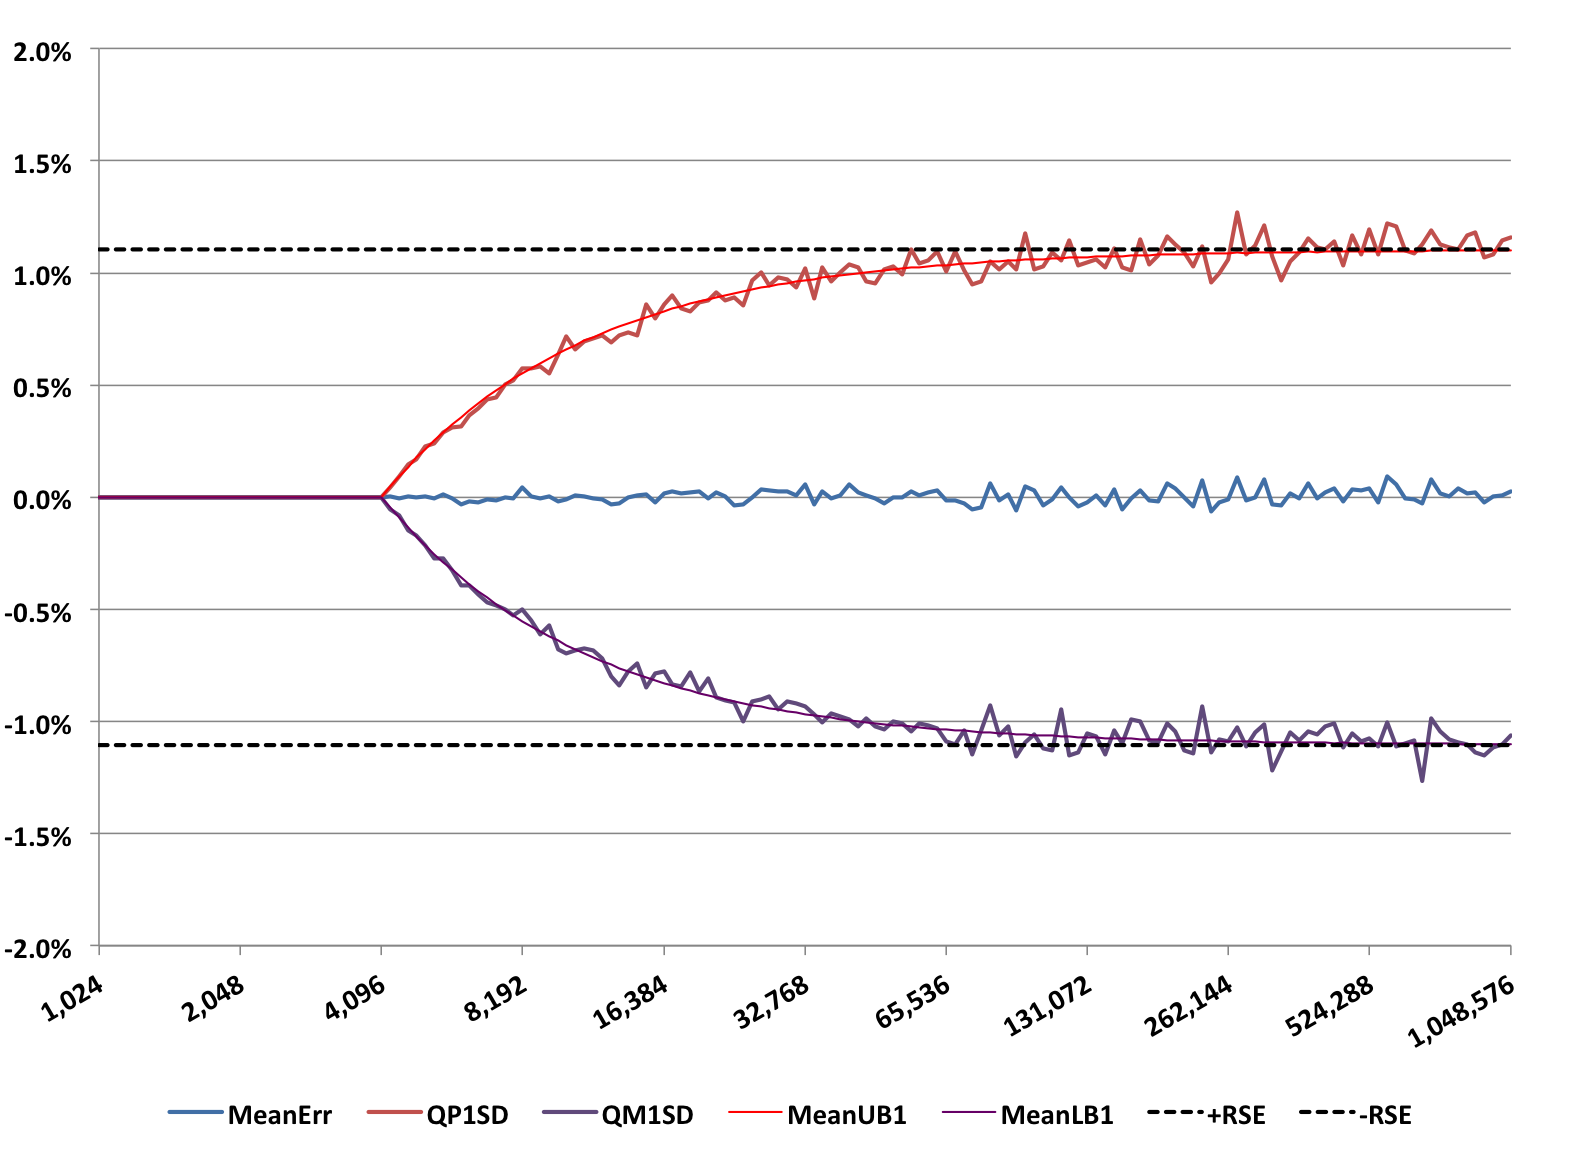
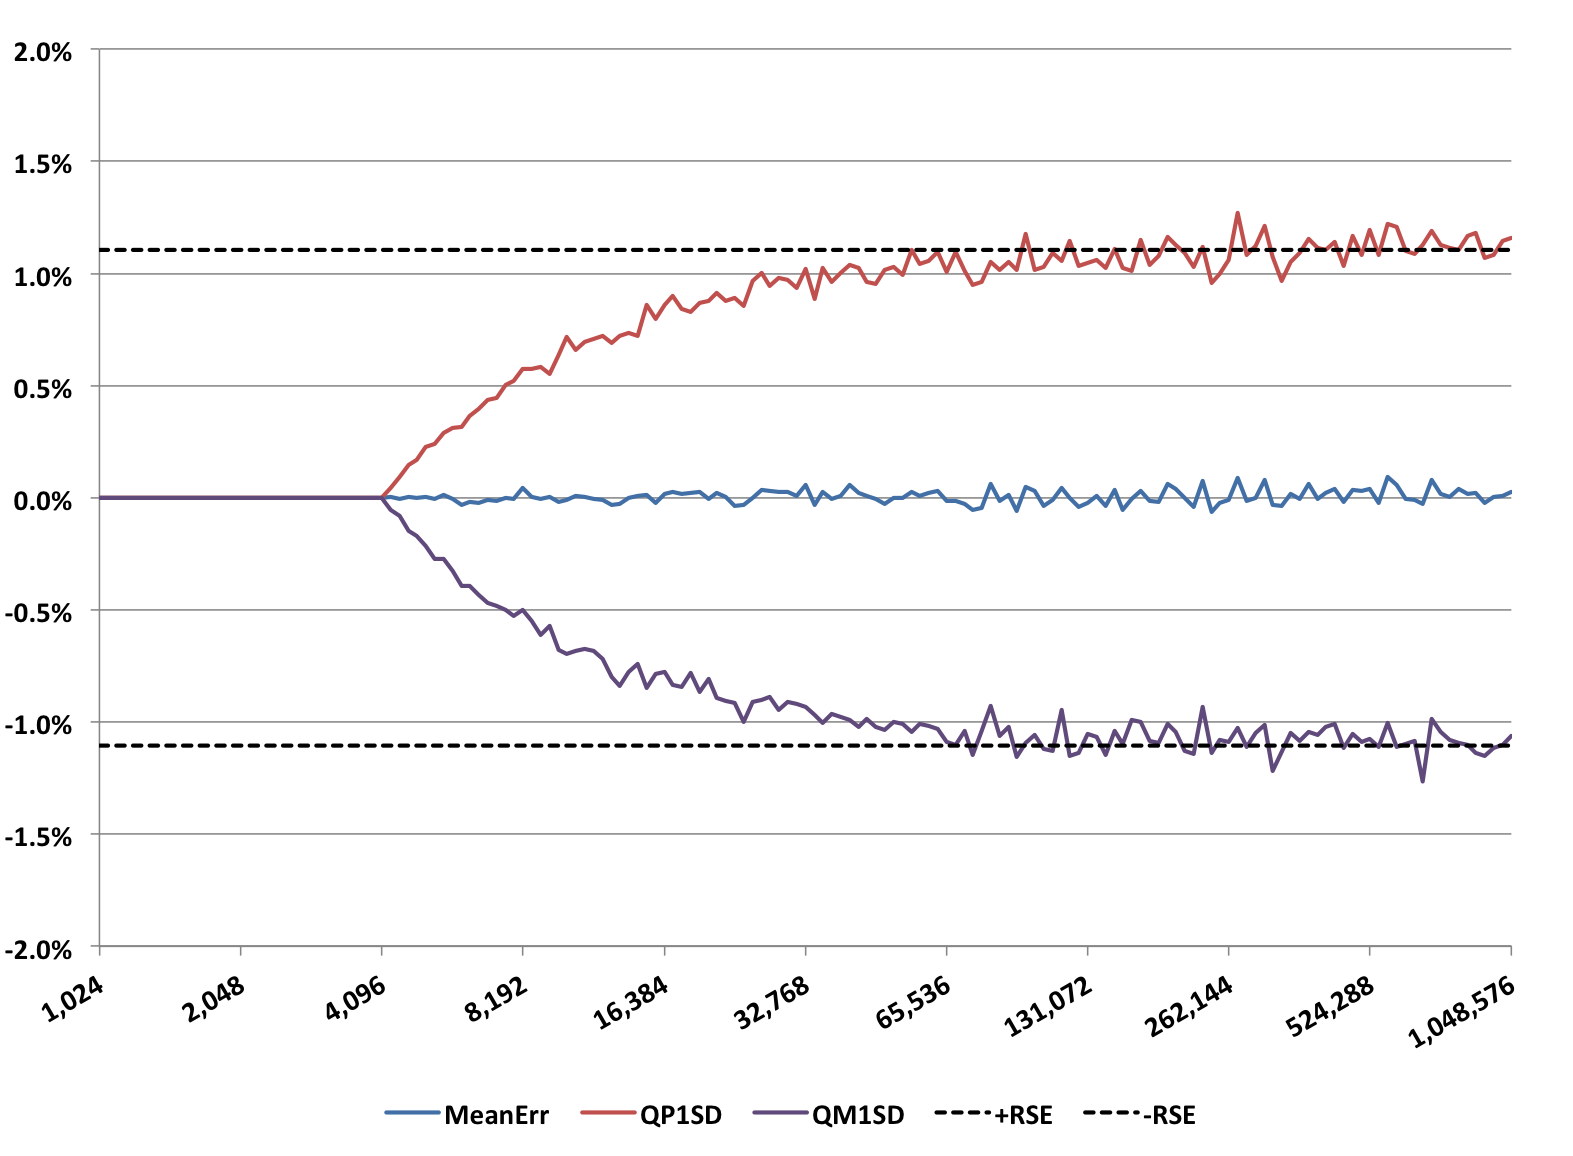
Update error performance graphs and p-Sampling section.

diff --git a/docs/AccuracyPlots.md b/docs/AccuracyPlots.md
@@ -11,28 +11,32 @@ A QuickSelect Sketch, which is the default sketch family, can be constructed wit
 <div class="highlight"><pre><code class="language-text" data-lang="text">int k = 4096;
 UpdateSketch sketch = UpdateSketch.builder().build(k);
 
-// The sketch is fed unique values with a loop similar to
-long u; //the x-coordinate value, the number of uniques to be fed to the sketch
+// The sketch is fed unique values. Here I use a simple loop for testing.
+// u is the number of uniques to be fed to the sketch
+
+long u;
 for (int i=0; i&lt;u; i++) {
   sketch.update(i);
 }
 
-// After all the unique values have been fed to the sketch, 
-//  the estimate of <i>u</i> is obtained from the sketch
+// After all the unique values have been fed to the sketch, get the estimate of <i>u</i>
+
 double est = sketch.getEstimate();
 
-// The upper and lower bounds at 1 RSE can be obtained from the sketch:
+// An optional rebuild option to reduce the sketch size to <i>k</i> if neccessary 
+
+sketch.rebuild();
+
+// Get the upper and lower bounds. 
+// The parameter is the number is the standard deviations from the estimate.
+
 double ub = sketch.getUpperBound(1);
 double lb = sketch.getLowerBound(1);
-
-// The optional rebuild option can be used prior to obtaining the above values 
-//  or storing the sketch:
-sketch.rebuild();
 </code></pre></div> 
 
-The accuracy behavior of this QuickSelect Sketch (the default) will be similar to the following graph:
+The accuracy behavior of this QuickSelect Sketch (the default, with no rebuild) will be similar to the following graph:
 
-<img class="doc-img-half" src="{{site.docs_img_dir}}QS4KError.png" alt="QS4KError" /> 
+<img class="doc-img-half" src="{{site.docs_img_dir}}QS4KError.png" alt="QS4KError" />
 
 This type of graph is called a "pitchfork", which is used throughout this documentation to characterize the accuracy of the various sketches.
 
@@ -45,7 +49,9 @@ This means that the plotted x values form an exponential series of the form <i>2
   * A <i>Trial Set<i> is the set of results of runing <i>T</i> independent trials at <i>x</i>.
 
 * The y-axis measures the Relative Error (RE) of result estimates returned by the sketches in the trials, where <i>RE = MeasuredValue/TrueValue -1</i> and is plotted as a percent. 
-  * An imaginary line drawn vertically from each x-axis point represents the range of error values that result from the Trial Set.  However, not all of the error values from all the trials are plotted. Instead, for each Trial Set, the result error values are sorted and then selected quantiles are chosen and then only those y-axis values are plotted. 
+  * An imaginary line drawn vertically from each x-axis point represents the range of error values that result from the Trial Set. 
+  However, not all of the error values from all the trials are plotted. 
+  Instead, for each Trial Set, the result error values are sorted and then selected quantiles are chosen and then only those y-axis values are plotted. 
   * Connecting the plotted points with the same quantiles form the lines of the graph
 
 * The plotted lines on these graphs are actually the lines of constant quantiles of the distributions of error measured at each x-axis point on the graph.  
@@ -57,39 +63,35 @@ which has the +/- 1, 2 and 3 standard deviation points on the x-axis marked and 
 
 The specifics of the above pitchfork graph:
 
-* The sketch type is the Heap QuickSelect Sketch, which is the default theta UpdateSketch.
+* The sketch type is the Heap QuickSelect Sketch, which is the default Theta UpdateSketch.
 * The sketch was configured with <i>k = 4096</i>.
 * The x-axis varies from 1024 (2^10) uniques per sketch to 1,048,576 (2^20) uniques per sketch. 
 * PPO = 16.
-* T = 1000.
-* Wavy colored curves:
-  * The light blue wavy curve in the center (at Y = 0%) represents the mean of the distribution of error values.  The median is not plotted but sits on top of the mean. The fact that the mean and median are at zero validates the assertion that the estimates from the sketch are <i>unbiased</i>.
-  * The red wavy curve are the quantiles at +1 <i>Relative Standard Error</i> (RSE), which means ~15.87% of the results of all the trials are above that curve.
-  * The purple wavy curve are the quantiles at -1 RSE, which means ~15.87% of the results of all the trials are below that curve.
-* Straight segment curves:
-  * The bright red straight segment lines are estimates from the sketch of the upper bound at plus 1 RSE. 
-  * The bright purple straight segment lines are estimates from the sketch of the lower bound at minus 1 RSE.
-* Reference lines:
-  * The long-dash reference lines are at plus and minus 1 RSE computed from the mathematical theory. The fact that 68.3% of all the trial points lie within these two long-dashed lines validates the assertion that the basic RSE of a sketch is less than <i>1/sqrt(k)</i>.
+* Trials, T = 4096.
+* Wavy colored lines:
+  * The black wavy line in the center (at Y = 0%) represents the median of the distribution of error values.  The median sits on top of the mean, which is brown and hard to see. 
+  The fact that the mean and median are at zero validates the assertion that the estimates from the sketch are <i>unbiased</i>.
+  * The red wavy line is the connected quantiles at +1 <i>Relative Standard Error</i> (RSE), which means ~15.87% of the trial results are above that line.
+  * The blue wavy line is the connected quantiles at +2 RSE, which means ~2.3% of the trial results are above that line.
+  * The purple wavy line is the connected quantiles at -1 RSE, which means ~15.87% of the trial results are below that line.
+  * The green wavy line is the connected quantiles at -2 RSE, which means ~2.3% of the trial results are below that line.
   
 This particular graph also illustrates some other subtle points about this particular sketch.
 
-* The saw-toothed variation in the overall shaped is due to the fact that the QuickSelect sketch only updates its internal theta when the hash table fills up, which occurs when the hash table reaches <i>15k/8</i> (note that the estimation starts at almost 8K), at which point the sketch uses the QuickSelect algorithm to find the <i>(k + 1)</i><sup>th</sup> order statistic from the cache, assigns this value to theta, discards all values above theta, and rebuilds the hash table.  
-* Because the number of valid points nearly reaches <i>2k</i> values means that the Relative Error of the sketch nearly reaches <i>1/sqrt(2k)</i>. The short-dashed lines are drawn at plus and minus <i>1/sqrt(2k)</i>. 
-* This behavior could possibly result in nearly <i>2k</i> values being stored.
+* The saw-toothed variation in the overall shaped is due to the fact that the QuickSelect sketch only updates its internal theta when the hash table fills up, which occurs when the hash table reaches <i>15k/8</i> 
+(note that the estimation starts at almost 8K), at which point the sketch uses the QuickSelect algorithm to find the <i>(k + 1)</i><sup>th</sup> order statistic from the cache, 
+assigns this value to theta, discards all values above theta, and rebuilds the hash table. 
+* Because the number of valid points nearly reaches <i>2k</i> values means that the Relative Error of the sketch nearly reaches <i>1/sqrt(2k)</i>. 
 
-If the user does not want the sketch ever to exceed <i>k</i> values, then there is an optional rebuild method that can be used as mentioned in the above code snippet.
+If the user does not want the sketch ever to exceed <i>k</i> values, then there is an optional rebuild method (see code snippet above) that can be used.
 This would result in the following graph:
 
 <img class="doc-img-half" src="{{site.docs_img_dir}}QS4KErrorRebuild.png" alt="QS4KErrorRebuild" />
 
-Note that the plus and minus 1 RSE now smoothly moves up to and follows the theoretically computed RSE reference lines and that estimation starts at 4K.  Because of the extra rebuild at the end the full cycle time of the sketch is a little slower and the average accuracy is a little less than without the rebuild.  This is a tradeoff the user can choose to use or not.
+Because of the extra rebuild at the end the full cycle time of the sketch is a little slower and the average accuracy is a little less than without the rebuild. 
+This is a tradeoff the user can choose to use or not.
 
-Extending this graph to include the quantiles for both +/- 1 RSE and +/- 2 RSE establishes the bounds for the 68% and 95.4% confidence levels respectfully.  Note the rescaling of the y-axis.
-
-<img class="doc-img-half" src="{{site.docs_img_dir}}QS4KErrorRebuild2.png" alt="QS4KErrorRebuild2" />
-
-
+The quantiles for both +/- 1 RSE and +/- 2 RSE establishes the bounds for the 68% and 95.4% confidence levels respectfully.
 
 ###Accuracy of the Alpha Sketch Family
 
@@ -98,5 +100,8 @@ Another major sketch family is the Alpha Sketch.  Its pitchfork graph looks like
 <img class="doc-img-half" src="{{site.docs_img_dir}}Alpha4KError.png" alt="Alpha4KError" /> 
 
 This sketch was also configured with a size of 4K entries, otherwise the defaults.
-The wavy and smooth curves have the same interpretation as the wavy and straight segment lines for the QuickSelect Sketch above.
-However, the short-dashed reference lines are computed at plus and minus <i>1/sqrt(2k)</i>, which means the Alpha Sketch is about 30% more accurate than the QuickSelect Sketch with rebuild for the same value of <i>k</i>.
+The wavy lines have the same interpretation as the wavy lines for the QuickSelect Sketch above.
+The short-dashed reference lines are computed at plus and minus <i>1/sqrt(2k)</i>. 
+The Alpha Sketch is about 30% more accurate than the QuickSelect Sketch with rebuild for the same value of <i>k</i>. 
+However, this improved accuracy can only be obtained when getEstimate() is directly called from the Alpha Sketch. 
+After compacting to a Compact Sketch or after any set operation, the accuracy falls back to the standard <i>1/sqrt(k)</i>.

diff --git a/docs/Sampling.md b/docs/Sampling.md
@@ -2,7 +2,71 @@
 layout: doc_page
 ---
 
-
 ##Up-Front Sampling
 
+The up-front / p-sampling option of the Theta Sketches exists to address the system-level storage allocation challenge when dealing with highly partitioned/fragmented, massive data that inherently has a long-tail distribution across all the fragments. 
+
+Partitioning of Big Data into a large number of fragments will often reveal that the incoming data has a long tail (or, more precisely, a power-law distribution). 
+
+For example, Yahoo has a few thousand "properties" and millions of Page-IDs/space-IDs, and users come from many thousands of Where-on-Earth geolocations across the globe.  If you were to create a sketch for every dimension-combination of (Page-ID, WOE) you would end up with billions of fragments, each with its own sketch.
+
+As you might expect, you will have a few of those combinations, e.g. (Front-page, New York City) that have very large counts of unique users, and millions of combinations (some small web-app, some small town) that would have only one or 2 users. 
+The sketch automatically limits the number of hashes it keeps for the big combinations to k, while all the hashes are retained for the millions of tiny combinations. 
+When you examine the storage of all those sketches you will discover that roughly 80% of all the storage is consumed by the "degenerate sketches", which are not sketching at all because they have not received more than k users.
+
+Setting the sampling to, say, p = 0.5, for all sketches, will automatically throw out 50% of all the data coming in to all the sketches. 
+A query against (FP, NYC) will have the same accuracy, with or without the p-sampling, because there is more than enough raw data to fill that sketch. 
+For all the tiny sketches, about half of the ones with only one user hash will disappear. 
+All of the degenerate sketches will be half of their original size when stored. 
+The effect of this is to reduce the overall system-level storage for all sketches by roughly 50%. 
+However, a query against (some small web-app, some small town) may return 0 because it has been "sampled" out. 
+It's relative error is now infinity! Sketches with more than 1 sample and less the k samples will have error rates that are in-between, but still can be larger than the native RSE of the basic sketch. 
+This effect is illustrated in the following plot, which was created with p=0.5.
+
+<img class="doc-img-half" src="{{site.docs_img_dir}}pSamplingPitchfork.png" alt="pSamplingPitchfork" />
+
+###The p-Sampling Error Behavior
+
+At about 8K uniques there is an inflection point where the error changes direction and begins to increase rather than go toward zero as with the normal pitchfork plots. 
+To the right of this inflection point the error behavior is the same as a normal sketch, with p=1.0, which is the default. 
+To the left of this inflection point the error begins to increase.
+
+The inflection point is the result of two different error behaviors intersecting.
+To the left of the inflection point the error behavior is that of standard Bernoulli sampling with a fixed probability equal to <i>p</i>.
+To the right of the inflection point the error behavior is that of the underlying sketch.
+
+The following log-log plot illustrates these intersecting error behaviors more clearly. 
+
+<img class="doc-img-half" src="{{site.docs_img_dir}}RSE_4K_0p5.png" alt="RSE_4K_0p5" />
+
+The RSE (normalized square-root of the variance) of a Bernoulli sampling process, with fixed <i>p</i>, is a straight line on a log-log plot (plotted in blue).
+The y intercept at x=1 is simply <i>(1/p -1)</i> and the log-log slope is -1/2. For p=0.5, the y intercept is 1.0 or 100% relative error. 
+So a sketch with only one retained hash value could return estimates of 0, 1 or 2. 
+Although the relative error is large, the absolute error is only +/- 1, which may not be significant.
+
+The green curve represents the theoretical RSE of the sketching process.
+The red "X" markers are the measured RSE of the combined Bernoulli sampling process and the sketch process.  
+
+###Understanding Upper and Lower Bounds Behavior For Small Sketches and p-Sampling 
+
+For p-sampling sketches with very small number of samples the error distribution is very complex and no longer can be modeled with the Gaussian distribution.
+In order to provide the library user with meaningful getUpperBound() and getLowerBound() values at these very low sample sizes, 
+the library implements more sophisticated error models as illustrated in the following graph.
+
+<img class="doc-img-half" src="{{site.docs_img_dir}}FractTrialsLB_0p5.png" alt="FractTrialsLB_0p5" />
+
+Each point along the X-axis is the result of 4096 trials. The fraction of those 4096 trials that are less than getLowerBound(1) (Purple) should be less than ~16%.
+The scatter or variance is due to the quantization effects of only 4096 trials. The important thing to note is that for the very low count values, the purple markers 
+are all below the purple dashed line.  Similarly, for getLowerBound(2) (Green), the markers should be less than ~2.3%. 
+The graph for the getUpperBound() values is very similar.
+
+As a result of this modeling, the upper and lower bounds values for these very small sample sizes are intentionally conservative. 
+If these bounds had been modeled assuming a Gaussian, the returned values would be way off.
+
+###Summary
+The option of p-sampling provides the systems engineer and product manager with another "knob-to-turn" in trading off overall system storage and acceptable accuracy for small queries. 
+It is quite likely that for the majority of queries, which tend to be against the larger dimension-combinations, the error is quite acceptable. 
+And the product manager may decide that below some threshold size, the small queries have little business value, thus larger error on those queries may be acceptable.
+
+Using this capability must be a carefully thought-through business decision, which is also the case for any form of data sampling.
 
